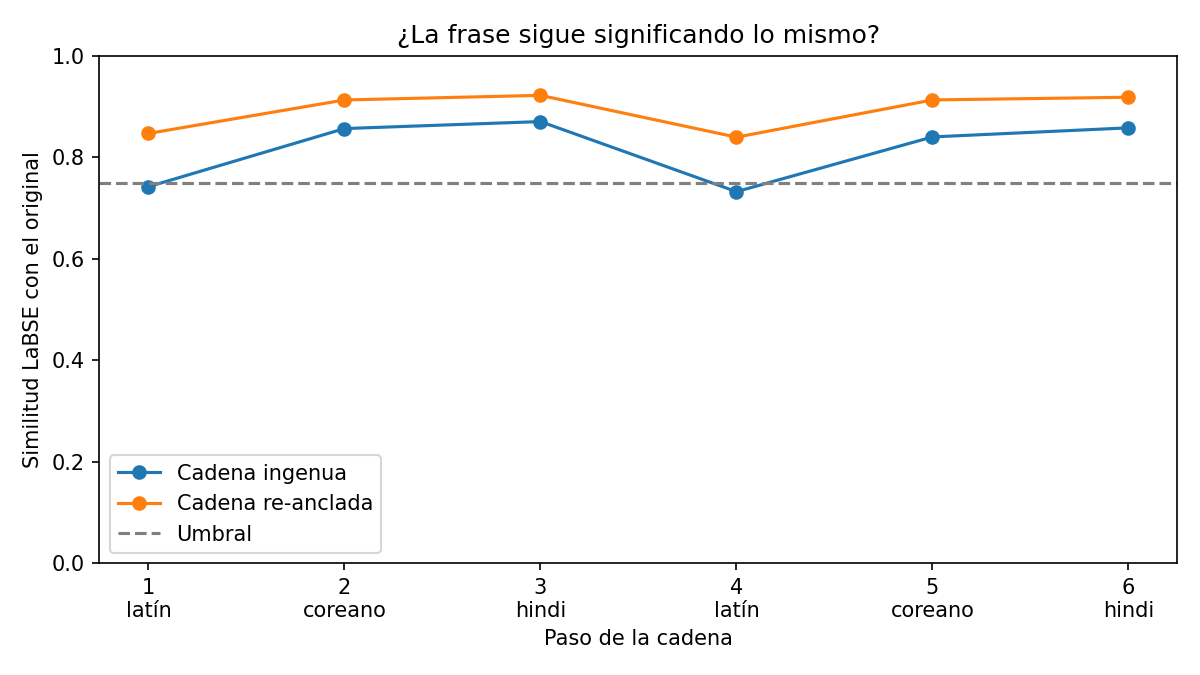
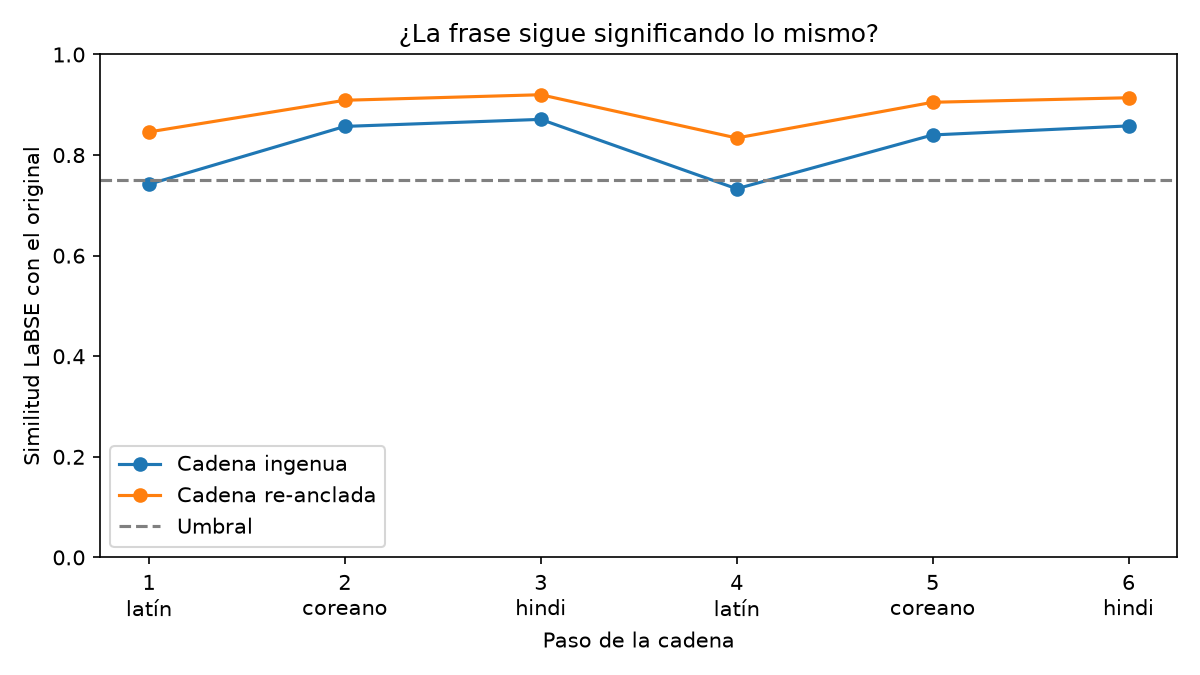
Resultados con ida y vuelta (corrida en Colab) y comparación contra la versión anterior

diff --git a/README.md b/README.md
@@ -191,8 +191,9 @@ y % de pasos corregidos.
 **Ojo:** con la ida y vuelta (paso 3 de la cadena re-anclada) el chrF de
 regreso también se usa para *elegir* candidatas, así que en la cadena
 re-anclada ya no es una métrica independiente: su mejora se debe en parte a
-que se optimiza directamente. Para comparar contra los resultados de abajo
-(medidos antes de este cambio) se puede correr con `PESO_IDA_Y_VUELTA = 0`.
+que se optimiza directamente. Por eso abajo se reporta junto a la similitud
+LaBSE, que sí sigue siendo independiente, y contra la corrida anterior sin ida y
+vuelta (`PESO_IDA_Y_VUELTA = 0`).
 
 ## Resultados (Colab, GPU T4)
 
@@ -205,15 +206,16 @@ Contra las traducciones humanas de prueba (`salidas/metricas_opus.csv`):
 
 | Dirección | Frases | BLEU base | BLEU afinado | chrF++ base | chrF++ afinado |
 |---|---|---|---|---|---|
-| español → latín | 300 (Tatoeba) | 16.1 | **24.1** | 36.8 | **42.4** |
-| latín → español | 300 (Tatoeba) | 30.7 | **37.5** | 50.2 | **55.1** |
-| español → coreano | 200 (TED2020) | 13.3 | — | 24.1 | — |
-| coreano → español | 200 (TED2020) | 18.6 | — | 43.5 | — |
-| español → hindi | 200 (TED2020) | 21.2 | — | 41.2 | — |
-| hindi → español | 200 (TED2020) | 24.4 | — | 48.7 | — |
+| español → latín | 300 (Tatoeba) | 16.0 | **24.5** | 36.7 | **42.7** |
+| latín → español | 300 (Tatoeba) | 30.8 | **37.3** | 50.3 | **54.9** |
+| español → coreano | 200 (TED2020) | 13.8 | — | 24.7 | — |
+| coreano → español | 200 (TED2020) | 18.7 | — | 43.5 | — |
+| español → hindi | 200 (TED2020) | 21.0 | — | 41.2 | — |
+| hindi → español | 200 (TED2020) | 24.2 | — | 48.7 | — |
 
-El fine-tuning sube el latín unos 7-8 puntos de BLEU y 5-6 de chrF++ en las dos
-direcciones. **Ojo al interpretarlo**: las frases de prueba son de Tatoeba,
+El fine-tuning sube el latín unos 6.5-8.5 puntos de BLEU y 4.5-6 de chrF++ en las
+dos direcciones. Una segunda corrida en Colab dio lo mismo con diferencias de
+±0.5 (versiones de las librerías). **Ojo al interpretarlo**: las frases de prueba son de Tatoeba,
 igual que buena parte del entrenamiento, así que parte de la mejora es que el
 modelo aprendió el estilo de Tatoeba (orden de palabras, nombres latinizados
 como *Thoma*), no solo mejor latín; en algunas frases el afinado comete
@@ -224,24 +226,59 @@ no son comparables con los del latín.
 ### Cadena de 6 pasos: ingenua vs re-anclada
 
 20 frases, cadena latín → coreano → hindi → latín → coreano → hindi
-(`salidas/resumen_por_paso.csv`, `salidas/similitud_por_paso.png`):
+(`salidas/resumen_por_paso.csv`, `salidas/similitud_por_paso.png`). La
+re-anclada es la actual, con ida y vuelta (`PESO_IDA_Y_VUELTA = 0.5`):
 
 | Paso | Idioma | Similitud ingenua | Similitud re-anclada | % arriba del umbral (ingenua → re-anclada) |
 |---|---|---|---|---|
-| 1 | latín | 0.742 | **0.847** | 55 % → **90 %** |
-| 2 | coreano | 0.857 | **0.913** | 85 % → **100 %** |
-| 3 | hindi | 0.871 | **0.922** | 90 % → **100 %** |
-| 4 | latín | 0.733 | **0.840** | 50 % → **95 %** |
-| 5 | coreano | 0.840 | **0.913** | 85 % → **100 %** |
-| 6 | hindi | 0.858 | **0.919** | 90 % → **100 %** |
+| 1 | latín | 0.742 | **0.846** | 55 % → **90 %** |
+| 2 | coreano | 0.857 | **0.909** | 85 % → **100 %** |
+| 3 | hindi | 0.871 | **0.920** | 90 % → **100 %** |
+| 4 | latín | 0.733 | **0.834** | 50 % → **90 %** |
+| 5 | coreano | 0.840 | **0.905** | 85 % → **100 %** |
+| 6 | hindi | 0.858 | **0.914** | 90 % → **100 %** |
 
 Con la cadena ingenua el significado se va perdiendo y el latín es el punto
 débil (la mitad de las frases queda por debajo del umbral). Con el re-anclaje
 la similitud se mantiene estable en los 6 pasos, sin acumular error: la frase
 final en hindi conserva el significado tanto como la del paso 2. La corrección
-desde el original solo hizo falta en el 5 % de los pasos de coreano.
+desde el original solo hizo falta en el 5 % de los pasos 2, 4 y 5.
+
+Ejemplo: *"El perro duerme bajo la mesa."* →
+*Canis sub mensam dormit.* → 개는 탁자 아래에서 잠을 자고 있습니다. → कुत्ता मेज के
+नीचे सो रहा है। → *Cane sub mensa dormit.* → …, y cada paso regresa como *"El
+perro duerme / está durmiendo debajo de la mesa"* (similitud 0.90-0.96).
 
 ![Similitud por paso](salidas/similitud_por_paso.png)
+
+### Efecto de la ida y vuelta
+
+Re-anclada sin ida y vuelta (corrida anterior,
+`salidas/resumen_por_paso_sin_ida_y_vuelta.csv`) contra con ida y vuelta:
+
+| Paso | Idioma | Similitud LaBSE (sin → con) | % arriba del umbral | chrF del regreso (sin → con) |
+|---|---|---|---|---|
+| 1 | latín | 0.847 → 0.846 | 90 % → 90 % | 81.2 → **84.2** |
+| 2 | coreano | 0.913 → 0.909 | 100 % → 100 % | 70.6 → **74.4** |
+| 3 | hindi | 0.922 → 0.920 | 100 % → 100 % | 70.8 → **74.6** |
+| 4 | latín | 0.840 → 0.834 | 95 % → 90 % | 69.2 → **78.0** |
+| 5 | coreano | 0.913 → 0.905 | 100 % → 100 % | 65.8 → **74.4** |
+| 6 | hindi | 0.919 → 0.914 | 100 % → 100 % | 70.0 → **73.7** |
+
+Las traducciones elegidas regresan al español con palabras más parecidas a la
+original (+3 a +9 de chrF, sobre todo en el segundo latín y el segundo
+coreano), a cambio de una similitud LaBSE apenas menor (≤ 0.008) y una frase
+menos arriba del umbral en el paso 4. Como el chrF del regreso se usa para
+elegir, esa subida está optimizada directamente y no es una mejora
+independiente; la conclusión justa es que se conserva el significado (LaBSE
+casi igual) y se gana fidelidad en las palabras. El costo es tiempo: en la T4
+la cadena re-anclada tarda ~38 s por frase (la ingenua ~14 s), porque cada
+candidata también se traduce de vuelta.
+
+> Los resúmenes (`resumen_por_paso.csv`, `metricas_opus.csv`) y la gráfica son de
+> esta corrida. Los CSV frase por frase (`resultados_cadena.csv`,
+> `traducciones_opus.csv`) siguen siendo de la corrida anterior, porque los de
+> esta no se subieron desde Colab.
 
 ## Créditos de los datos
 
